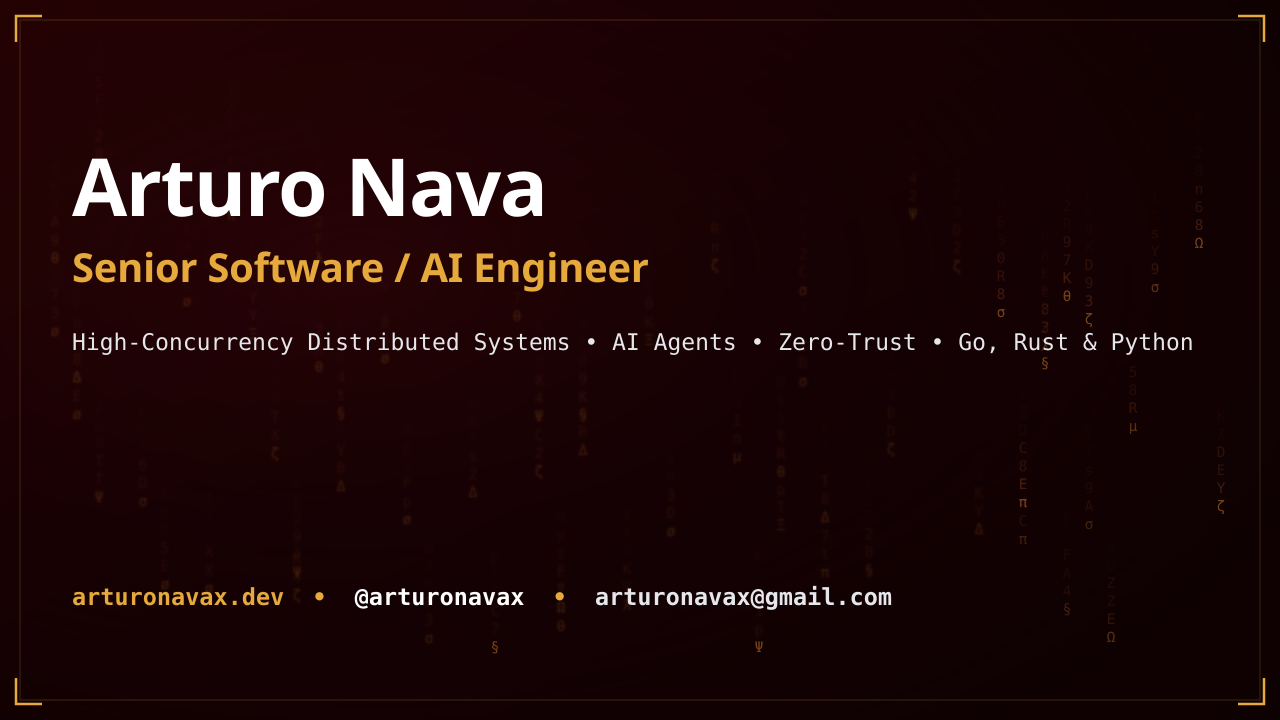
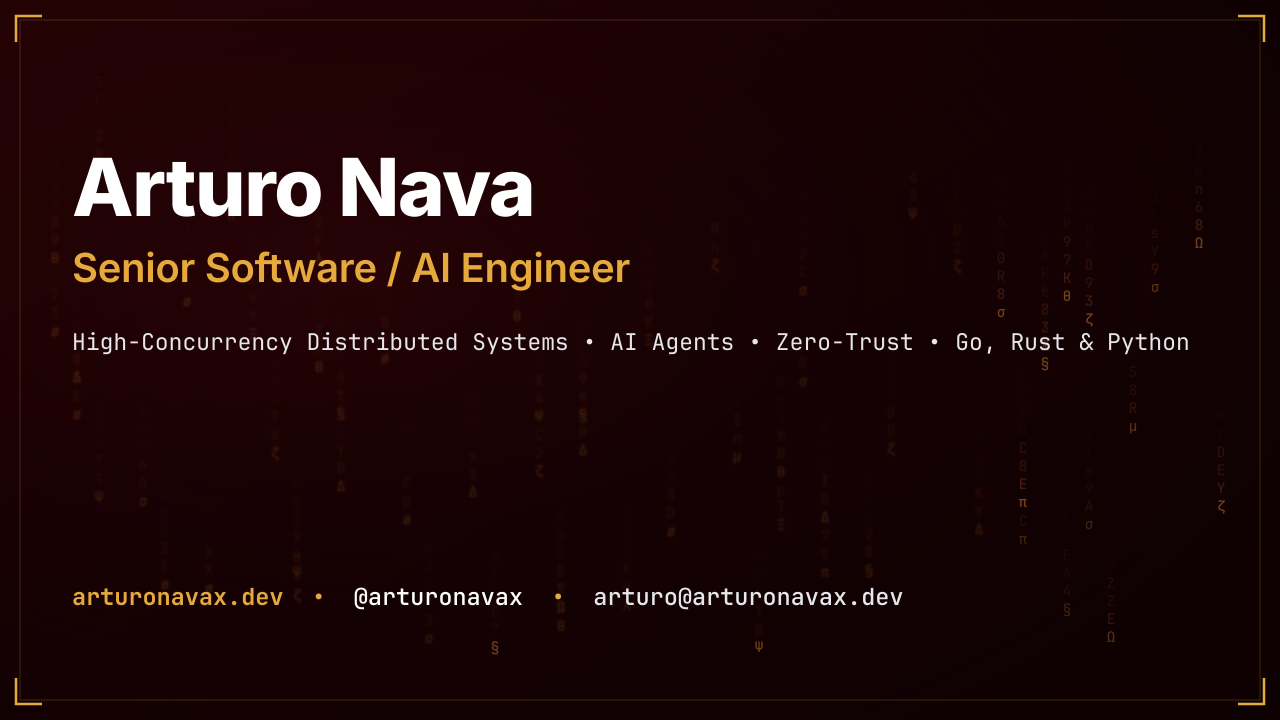
new email arturo@arturonavax.dev

diff --git a/src/content/cv/ArturoNava-CV-es.md b/src/content/cv/ArturoNava-CV-es.md
@@ -1,7 +1,7 @@
 # Arturo Nava
 
 **Senior Software Engineer | Sistemas Distribuidos, Alta Concurrencia & Seguridad**  
-Bogotá, D.C., Colombia • [arturonavax@gmail.com](mailto:arturonavax@gmail.com) • [+57 324 200 9803](tel:+573242009803) • [linkedin.com/in/arturonavax](https://www.linkedin.com/in/arturonavax) • [github.com/arturonavax](https://github.com/arturonavax) • [arturonavax.dev](https://arturonavax.dev/es/)
+Bogotá, D.C., Colombia • [arturo@arturonavax.dev](mailto:arturo@arturonavax.dev) • [linkedin.com/in/arturonavax](https://www.linkedin.com/in/arturonavax) • [github.com/arturonavax](https://github.com/arturonavax) • [arturonavax.dev](https://arturonavax.dev/es/?utm_source=cv-es&utm_medium=pdf&utm_campaign=resume-header)
 
 ---
 

diff --git a/src/content/cv/ArturoNava-CV-en.md b/src/content/cv/ArturoNava-CV-en.md
@@ -1,7 +1,7 @@
 # Arturo Nava
 
 **Senior Software Engineer | Distributed Systems, High-Concurrency & Security**  
-Bogota, D.C., Colombia • [arturonavax@gmail.com](mailto:arturonavax@gmail.com) • [+57 324 200 9803](tel:+573242009803) • [linkedin.com/in/arturonavax](https://www.linkedin.com/in/arturonavax) • [github.com/arturonavax](https://github.com/arturonavax) • [arturonavax.dev](https://arturonavax.dev/)
+Bogota, D.C., Colombia • [arturo@arturonavax.dev](mailto:arturo@arturonavax.dev) • [linkedin.com/in/arturonavax](https://www.linkedin.com/in/arturonavax) • [github.com/arturonavax](https://github.com/arturonavax) • [arturonavax.dev](https://arturonavax.dev/?utm_source=cv-en&utm_medium=pdf&utm_campaign=resume-header)
 
 ---
 

diff --git a/ai-tasks.md b/ai-tasks.md
@@ -2,6 +2,8 @@
 
 [] Quitar los enlaces del CV, menos el del header, justo antes de la impresion.
 
+[] Todos los "mailto:" deben dejar de funcionar normal, no abriran nada, solo tendran un boton de copia pequeño junto.
+
 [] Asegurarte que absolutamente todos los "canonical" finales que llegan a exponerse en produccion esten correctos en cada pagina, para comprobar que los links con atributos UTM no afecten al SEO.
 
     - Parece que al navegar en el timeline con las flechas/atajos, no se actualiza el canonical.
